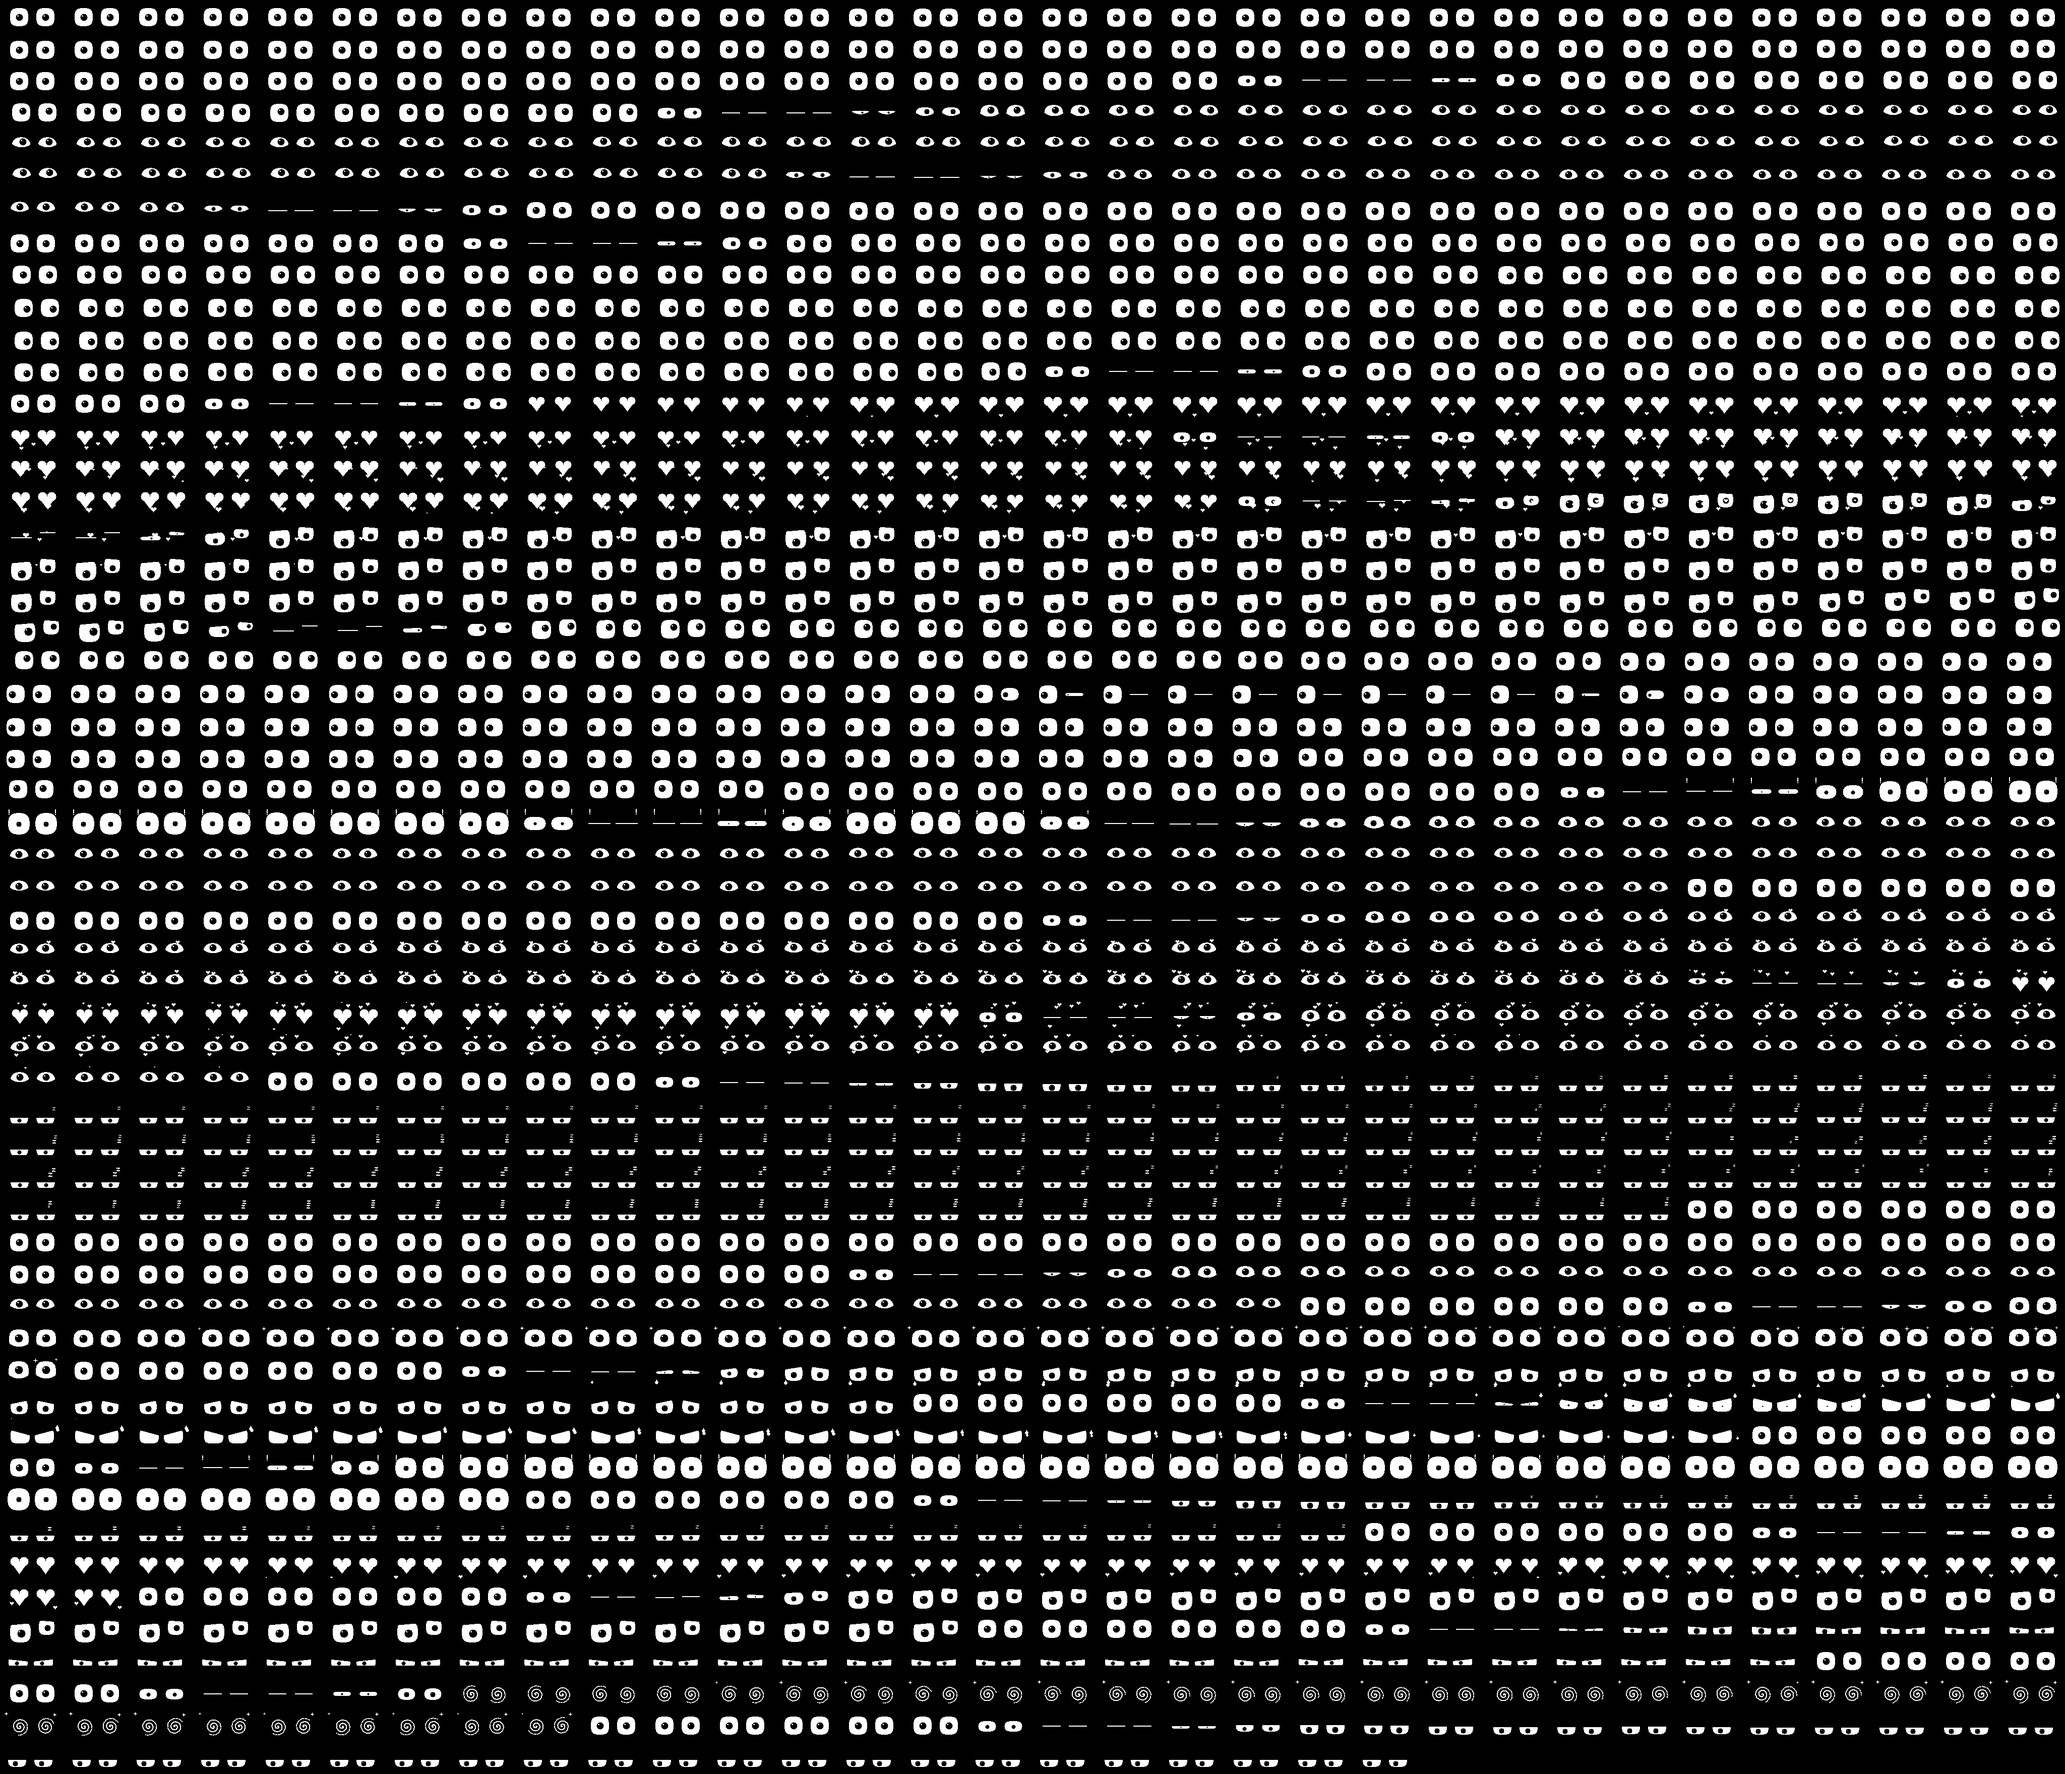
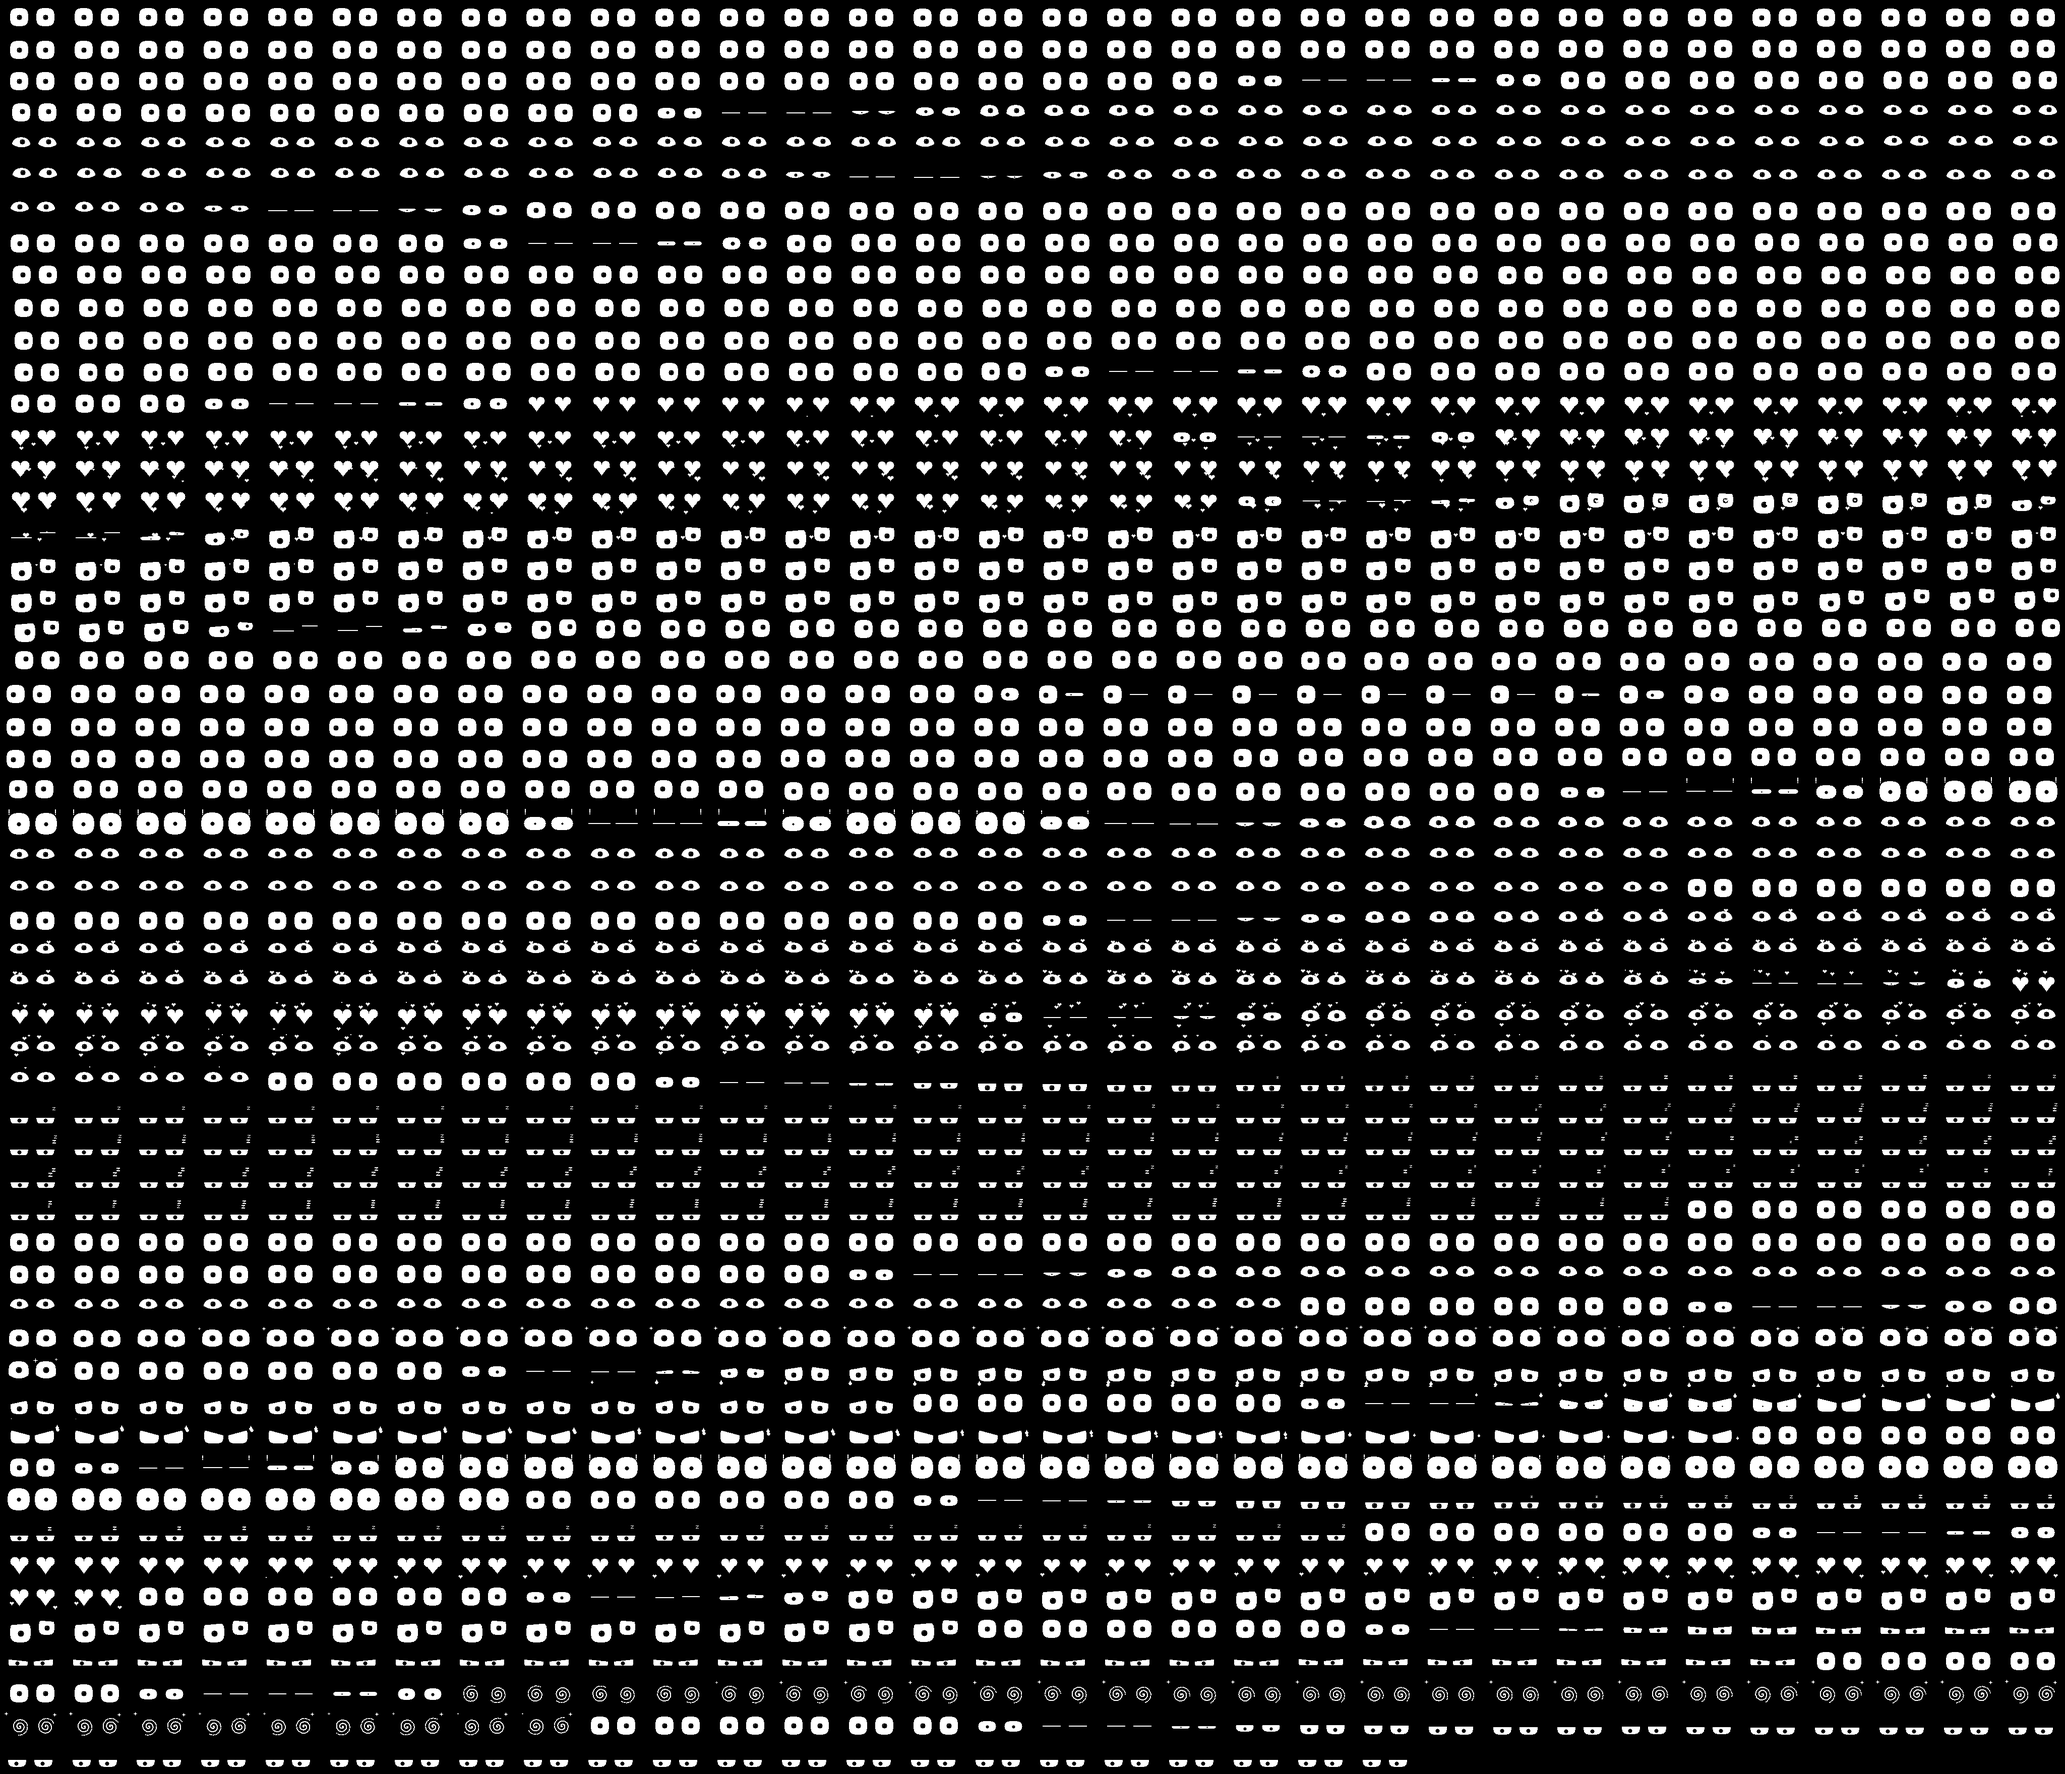
Tone the pupils down; start a TODO with the motion-sensing design
Pupils shrink from 20% to 15% of the eye and travel about half as far
with the gaze - enough to read as looking, without the googly-eye
effect. Previews and GIF regenerated.

TODO.md captures the motion-sensing plan (two AM312 PIRs for direction,
GPIO1/GPIO3, glance-with-cooldown behaviour, gentle wake, case windows)
plus a couple of smaller ideas, with enough detail to pick up cold.

Claude-Session: https://claude.ai/code/session_01Uzmr89698vnAwyPFW652Cr

diff --git a/src/Face.cpp b/src/Face.cpp
@@ -440,18 +440,19 @@ void Face::drawEye(Canvas& g, float cxf, float cyf, float scale, float closed,
     const float band = visBot - visTop;
     if (band >= 3.0f) {
       const float minDim = (float)(w < h ? w : h);
-      int r = (int)lroundf(minDim * 0.20f * cur_.pupil);
+      int r = (int)lroundf(minDim * 0.15f * cur_.pupil);
       const int maxR = (int)((band - 1.0f) * 0.5f);
       if (r > maxR) r = maxR;
       if (r >= 1) {
-        const float slideX = ((float)w * 0.5f - (float)r - 2.0f) * 0.85f;
-        const float slideY = (band * 0.5f - (float)r - 1.0f) * 0.85f;
+        // Half the available travel: enough to read as looking, not googly.
+        const float slideX = ((float)w * 0.5f - (float)r - 2.0f) * 0.45f;
+        const float slideY = (band * 0.5f - (float)r - 1.0f) * 0.45f;
         const int px = cx + (int)lroundf(clampf(gazeX_, -1.0f, 1.0f) * slideX);
         const int py = (int)lroundf((visTop + visBot) * 0.5f +
                                     clampf(gazeY_, -1.0f, 1.0f) * slideY);
         g.fillCircle(px, py, r, DB_BLACK);
         // A catchlight in the upper-left of the pupil.
-        if (cur_.sparkle > 0.35f && r >= 4) {
+        if (cur_.sparkle > 0.35f && r >= 5) {
           const int hr = (r >= 7) ? 2 : 1;
           g.fillCircle(px - r / 2, py - r / 2, hr - 1, DB_WHITE);
           if (hr == 2) g.fillRect(px - r / 2, py - r / 2, 2, 2, DB_WHITE);

diff --git a/TODO.md b/TODO.md
@@ -1,0 +1,40 @@
+# To do
+
+Ideas that are worth building but aren't built yet. Each one has enough
+detail to pick up cold.
+
+## Motion sensing - look towards movement
+
+**Sensor.** One PIR can't tell direction; it only says "something warm moved
+in my cone". Two mini PIRs (AM312: 10 mm, 3.3 V, digital out, ~$1) angled
+left and right in the shell give left / right / both. A VL53L5CX multizone
+ToF (8x8 depth grid, I2C, ~$15) would give real direction *and* distance for
+EMO-grade tracking, at the cost of a bigger library and a clear window.
+
+**Wiring.** GPIO1 and GPIO3 are free. `INPUT_PULLDOWN`, `-1` disables, same
+pattern as the touch pad in `src/config.h`.
+
+**Behaviour.** On a fresh rising edge on one side, ~60% chance of a glance
+that way via `Face::look()` for 2-3 s, occasionally with a curious tilt
+(`Face::flash(EMOTION_CURIOUS, ...)`); ~5 s cooldown so it never gets
+twitchy. Motion while asleep wakes it gently (`Personality::wake(false)`),
+curious rather than startled. Sustained presence should slow the boredom
+clock a little - someone being in the room is different from being ignored.
+Ignore both sensors for the first 60 s after boot; PIRs trigger randomly
+while they settle.
+
+**Case.** Unlike the touch pad, a PIR needs a clear window - the white Fresnel
+dome has to see out. Two 10 mm holes in the shell sides, angled ~30 degrees
+outward.
+
+**Hooks already in place.** `Face::look(x, y, hold)`, `Personality::wake()`,
+`Personality::idleSeconds()`; a third `Button` instance per PIR gets the
+debouncing for free.
+
+## Smaller things
+
+- Light sensor (LDR on GPIO0, ADC) so it dims in a dark room and sleeps at
+  night instead of on a timer.
+- A fully-off display after a long sleep (`SSD1306_DISPLAYOFF`), not just dim.
+- `make clean` could also regenerate the previews rather than only deleting
+  build output.

diff --git a/README.md b/README.md
@@ -193,6 +193,12 @@ Measurements, print settings and the STL export commands are in
 [hardware/case/README.md](hardware/case/README.md). Black filament makes the
 bezel disappear around the display, which is most of the look.
 
+## What's next
+
+Ideas that aren't built yet - motion sensing so it looks towards movement,
+a light sensor, a proper display-off sleep - are written up with enough
+detail to pick up cold in [TODO.md](TODO.md).
+
 ## Status
 
 Written and checked on a machine without the hardware attached. Everything in
